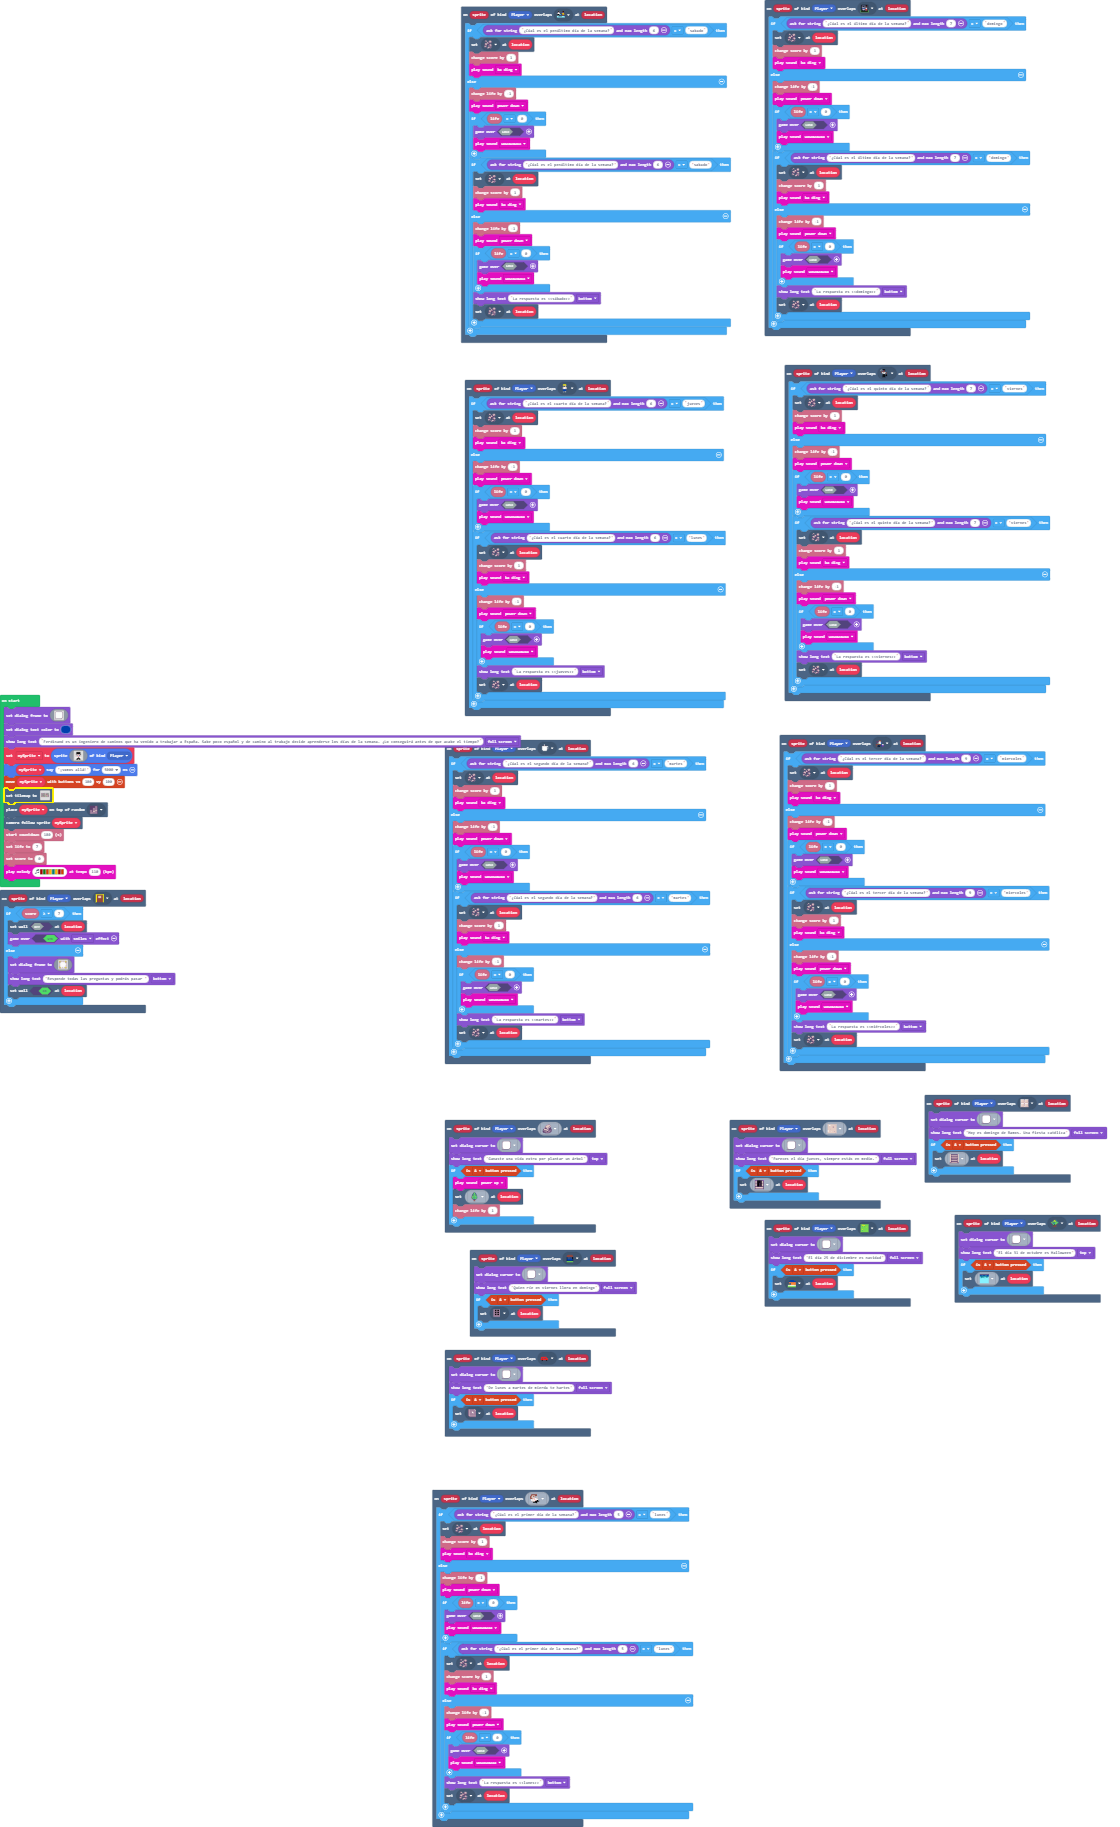
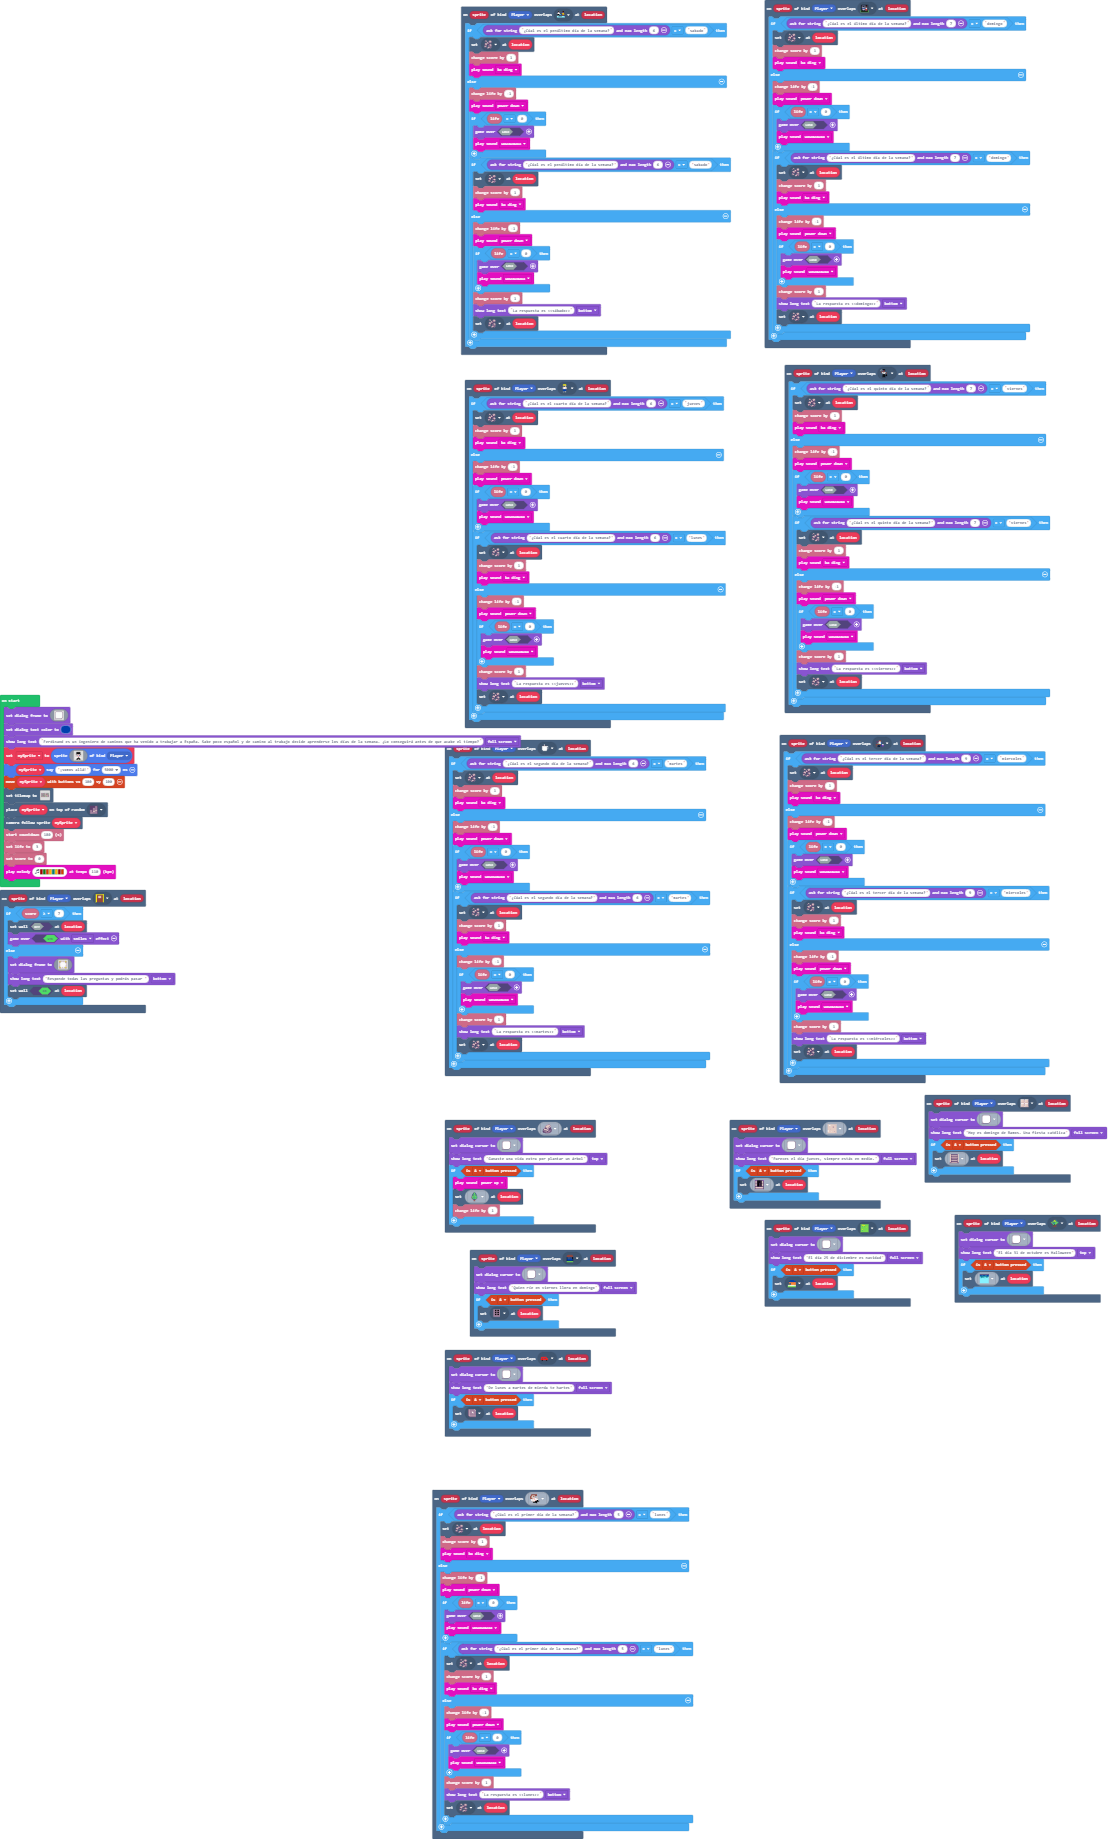
Update main.blocks, main.ts

Changed region(s): [[0.0, 0.0312, 0.6562, 0.9984], [0.6562, 0.0312, 1.0, 0.7176]]

diff --git a/main.ts b/main.ts
@@ -72,6 +72,7 @@ scene.onOverlapTile(SpriteKind.Player, myTiles.tile4, function (sprite, location
                 game.over(false)
                 music.wawawawaa.play()
             }
+            info.changeScoreBy(1)
             game.showLongText("La respuesta es <<viernes>>", DialogLayout.Bottom)
             tiles.setTileAt(location, sprites.castle.rock2)
         }
@@ -100,6 +101,7 @@ scene.onOverlapTile(SpriteKind.Player, myTiles.tile8, function (sprite, location
                 game.over(false)
                 music.wawawawaa.play()
             }
+            info.changeScoreBy(1)
             game.showLongText("La respuesta es <<jueves>>", DialogLayout.Bottom)
             tiles.setTileAt(location, sprites.castle.rock2)
         }
@@ -141,6 +143,7 @@ scene.onOverlapTile(SpriteKind.Player, myTiles.tile9, function (sprite, location
                 game.over(false)
                 music.wawawawaa.play()
             }
+            info.changeScoreBy(1)
             game.showLongText("La respuesta es <<martes>>", DialogLayout.Bottom)
             tiles.setTileAt(location, sprites.castle.rock2)
         }
@@ -185,6 +188,7 @@ scene.onOverlapTile(SpriteKind.Player, myTiles.tile6, function (sprite, location
                 game.over(false)
                 music.wawawawaa.play()
             }
+            info.changeScoreBy(1)
             game.showLongText("La respuesta es <<domingo>>", DialogLayout.Bottom)
             tiles.setTileAt(location, sprites.castle.rock2)
         }
@@ -213,6 +217,7 @@ scene.onOverlapTile(SpriteKind.Player, myTiles.tile10, function (sprite, locatio
                 game.over(false)
                 music.wawawawaa.play()
             }
+            info.changeScoreBy(1)
             game.showLongText("La respuesta es <<miércoles>>", DialogLayout.Bottom)
             tiles.setTileAt(location, sprites.castle.rock2)
         }
@@ -255,6 +260,7 @@ scene.onOverlapTile(SpriteKind.Player, myTiles.tile5, function (sprite, location
                 game.over(false)
                 music.wawawawaa.play()
             }
+            info.changeScoreBy(1)
             game.showLongText("La respuesta es <<sábado>>", DialogLayout.Bottom)
             tiles.setTileAt(location, sprites.castle.rock2)
         }
@@ -283,6 +289,7 @@ scene.onOverlapTile(SpriteKind.Player, myTiles.transparency16, function (sprite,
                 game.over(false)
                 music.wawawawaa.play()
             }
+            info.changeScoreBy(1)
             game.showLongText("La respuesta es <<lunes>>", DialogLayout.Bottom)
             tiles.setTileAt(location, sprites.castle.rock2)
         }
@@ -353,6 +360,6 @@ tiles.setTilemap(tiles.createTilemap(hex`17000c0008020207020702091b17171a1a0e0e1
 tiles.placeOnRandomTile(mySprite, sprites.dungeon.stairLarge)
 scene.cameraFollowSprite(mySprite)
 info.startCountdown(180)
-info.setLife(7)
+info.setLife(3)
 info.setScore(0)
 music.playMelody("C5 G B A F A C5 B ", 110)
